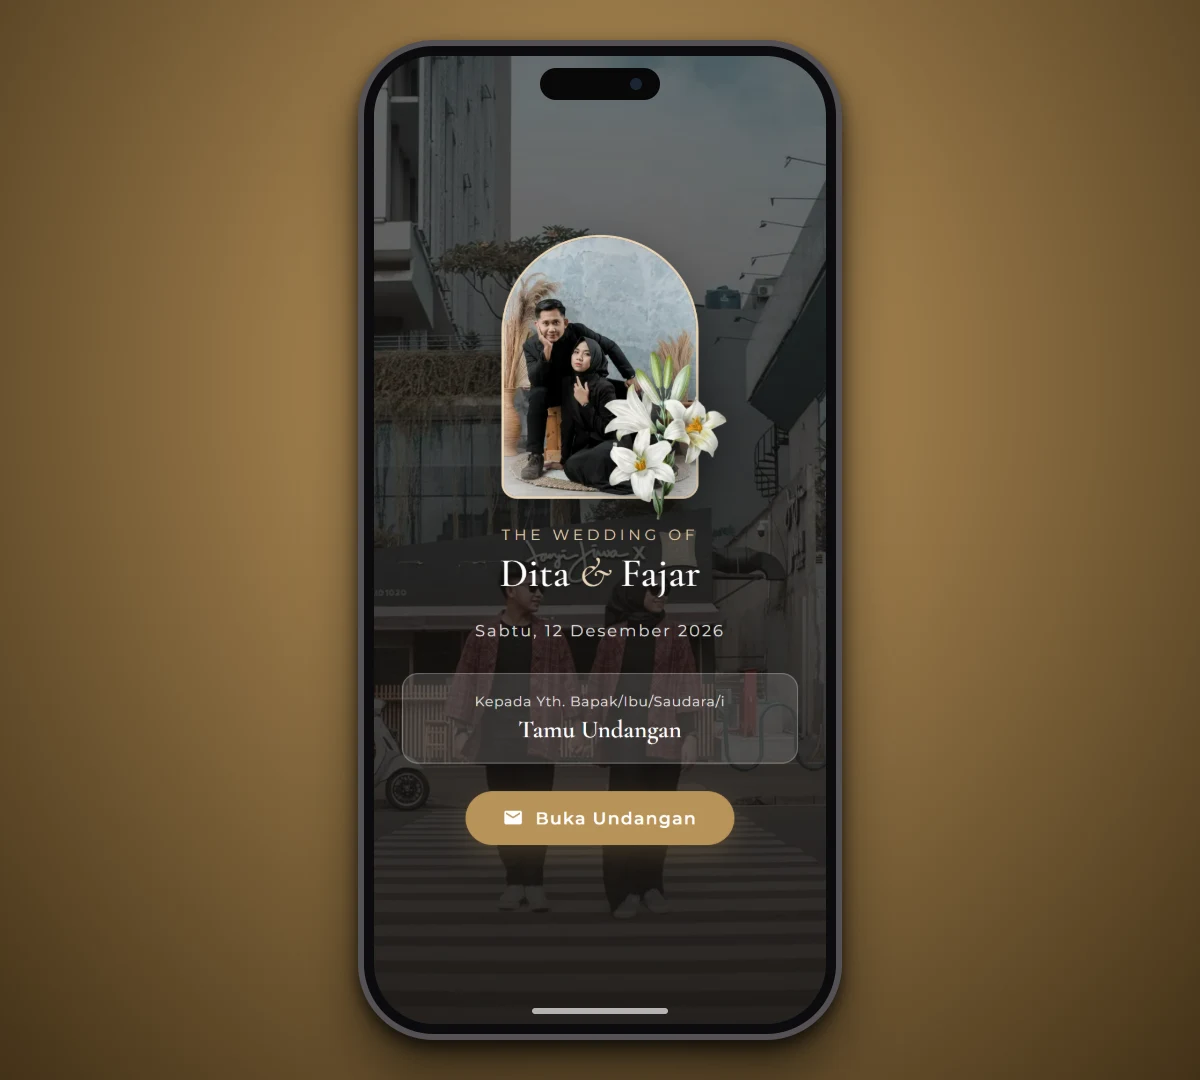
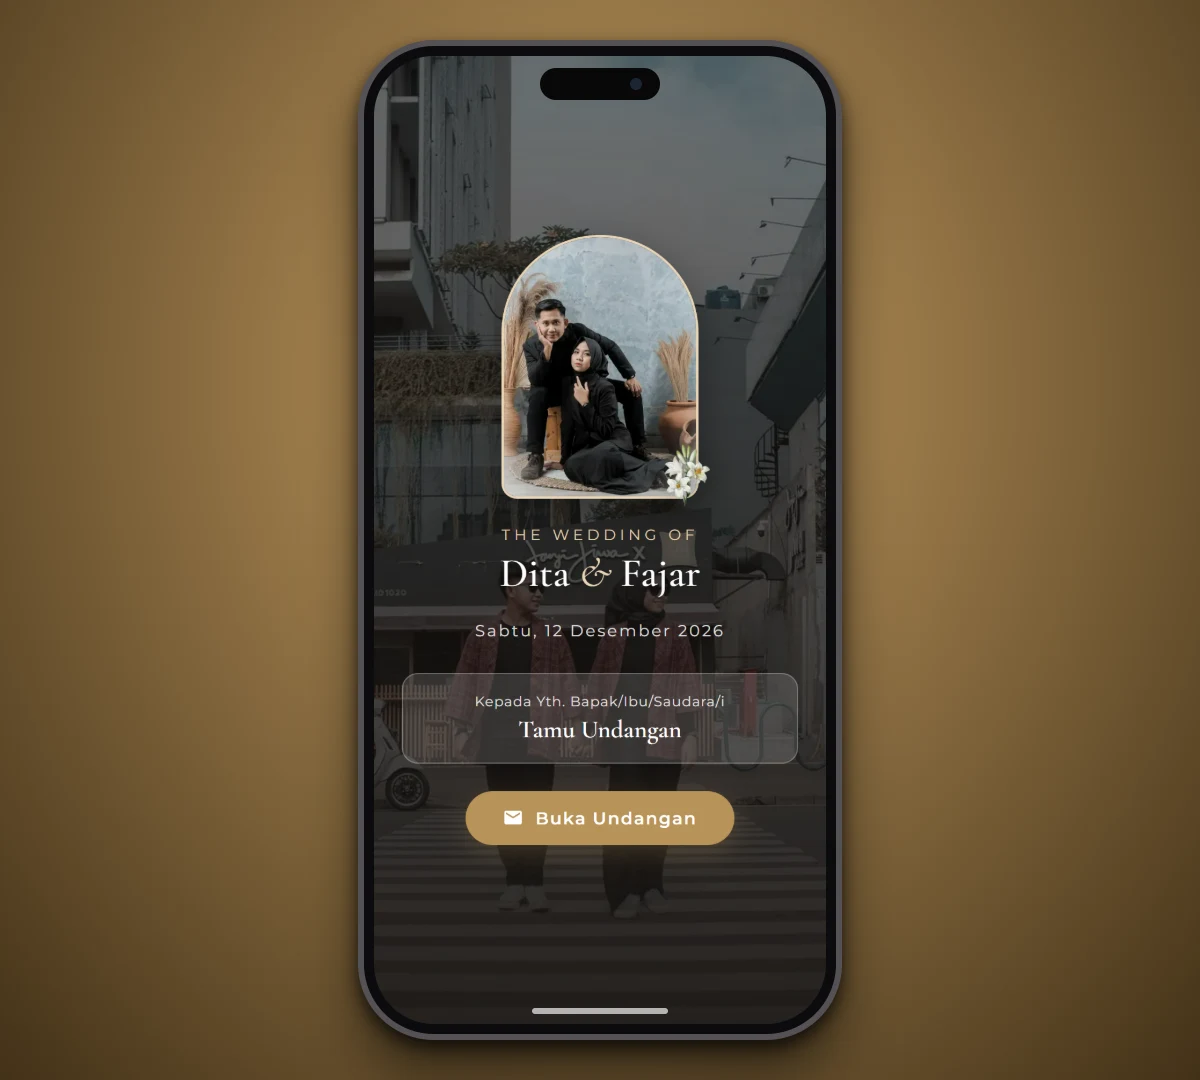
fix(champagne-ivory): resize and reposition flower accent so it does not obstruct photos

Changed region(s): [[0.4933, 0.3361, 0.6167, 0.4889]]

diff --git a/components/templates/prewedding/prewedding.module.css b/components/templates/prewedding/prewedding.module.css
@@ -439,13 +439,20 @@
 
 .coverArchFlower {
   position: absolute;
-  bottom: -24px;
-  right: -30px;
-  width: 125px;
-  height: 160px;
+  bottom: -8px;
+  right: -12px;
+  width: 46px;
+  height: 58px;
   z-index: 3;
   pointer-events: none;
-  filter: drop-shadow(0 8px 22px rgba(0, 0, 0, 0.45));
+  filter: drop-shadow(0 4px 12px rgba(0, 0, 0, 0.3));
+}
+
+.coverArchFlower img {
+  width: 100% !important;
+  height: 100% !important;
+  object-fit: contain;
+  display: block;
 }
 
 .coverKicker {
@@ -844,25 +851,33 @@
 
 .personArchLily {
   position: absolute;
-  bottom: -18px;
-  right: -24px;
-  width: 105px;
-  height: 135px;
+  bottom: -4px;
+  right: -8px;
+  width: 44px;
+  height: 56px;
   z-index: 3;
   pointer-events: none;
-  filter: drop-shadow(0 6px 16px rgba(0, 0, 0, 0.18));
+  filter: drop-shadow(0 3px 8px rgba(0, 0, 0, 0.14));
+}
+
+.personArchLily img,
+.personArchLilyLeft img {
+  width: 100% !important;
+  height: 100% !important;
+  object-fit: contain;
+  display: block;
 }
 
 .personArchLilyLeft {
   position: absolute;
-  bottom: -18px;
-  left: -24px;
-  width: 105px;
-  height: 135px;
+  bottom: -4px;
+  left: -8px;
+  width: 44px;
+  height: 56px;
   z-index: 3;
   pointer-events: none;
   transform: scaleX(-1);
-  filter: drop-shadow(0 6px 16px rgba(0, 0, 0, 0.18));
+  filter: drop-shadow(0 3px 8px rgba(0, 0, 0, 0.14));
 }
 
 .personRoleBadge {

diff --git a/components/templates/prewedding/prewedding-client-app.tsx b/components/templates/prewedding/prewedding-client-app.tsx
@@ -394,8 +394,8 @@ export function PreweddingClientApp({
                   <Image
                     src={flowerPath}
                     alt=""
-                    width={125}
-                    height={160}
+                    width={46}
+                    height={58}
                     style={{ objectFit: "contain", pointerEvents: "none" }}
                     priority
                   />
@@ -588,8 +588,8 @@ export function PreweddingClientApp({
                         <Image
                           src={flowerPath}
                           alt=""
-                          width={105}
-                          height={135}
+                          width={44}
+                          height={56}
                           style={{ objectFit: "contain", pointerEvents: "none" }}
                         />
                       </div>
@@ -639,8 +639,8 @@ export function PreweddingClientApp({
                         <Image
                           src={flowerPath}
                           alt=""
-                          width={105}
-                          height={135}
+                          width={44}
+                          height={56}
                           style={{ objectFit: "contain", pointerEvents: "none" }}
                         />
                       </div>
